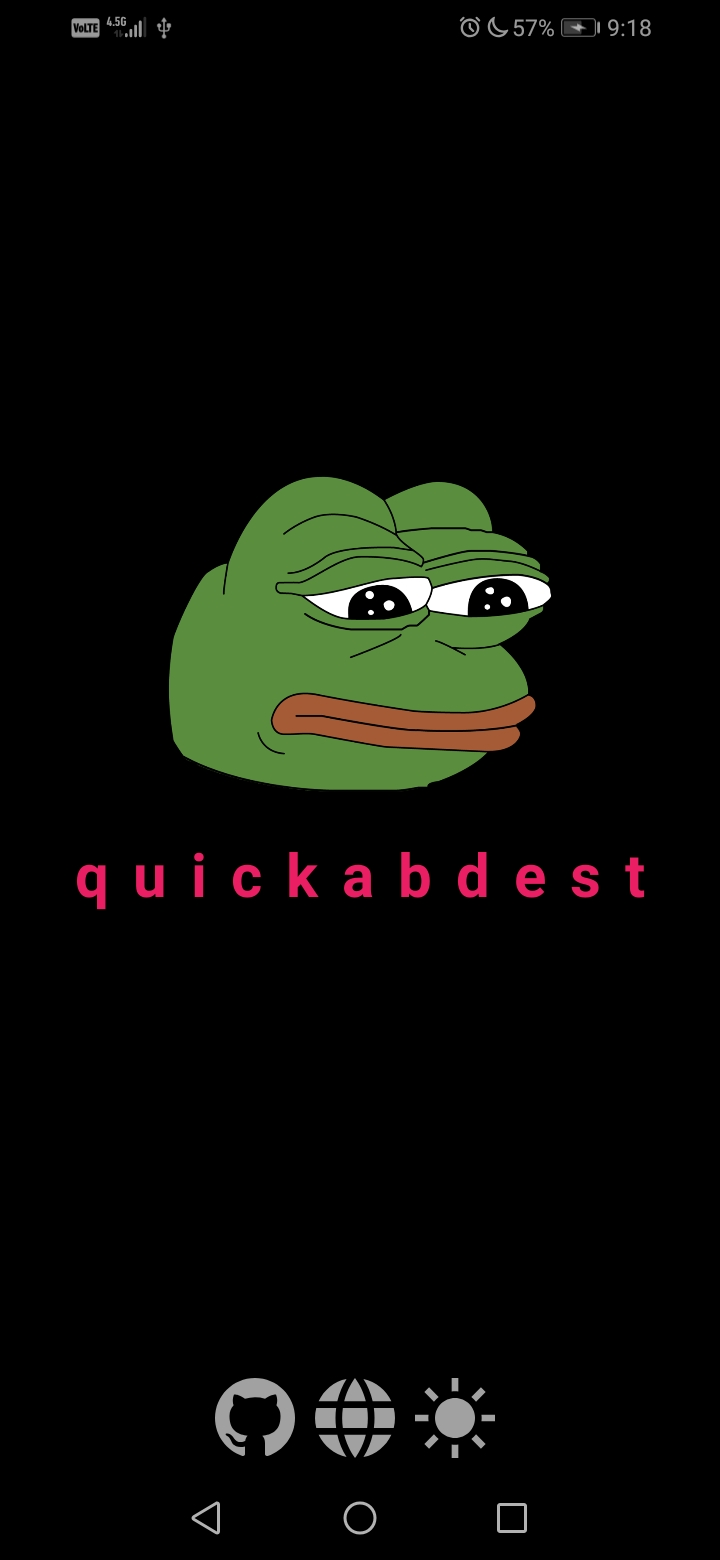
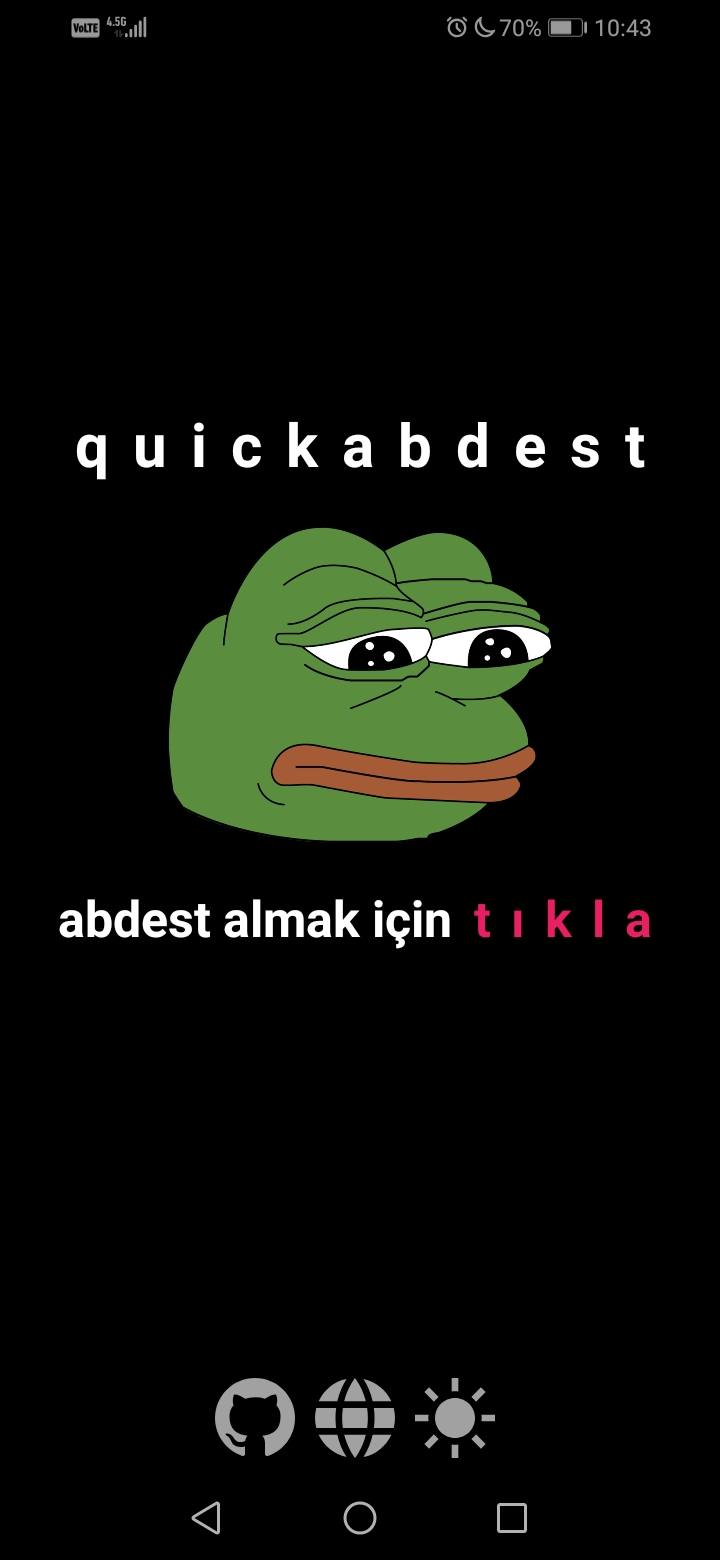
Change texts & add initial opening message

diff --git a/app/src/main/java/com/ahmetardakavakc/quickabdest/MainActivity.kt b/app/src/main/java/com/ahmetardakavakc/quickabdest/MainActivity.kt
@@ -7,6 +7,7 @@ import android.media.MediaPlayer
 import android.net.Uri
 import android.os.Bundle
 import android.view.View
+import androidx.appcompat.app.AlertDialog
 import androidx.appcompat.app.AppCompatActivity
 import androidx.core.view.WindowCompat
 import com.ahmetardakavakc.quickabdest.databinding.ActivityMainBinding
@@ -17,9 +18,11 @@ class MainActivity : AppCompatActivity() {
     private lateinit var mediaPlayer: MediaPlayer
     private lateinit var githubIntent: Intent
     private lateinit var websiteIntent: Intent
+    private lateinit var creditsIntent: Intent
     private lateinit var sharedPreferences: SharedPreferences
     private lateinit var prefEditor: SharedPreferences.Editor
     private var darkMode = false
+    private var firstStart: Boolean? = null
 
     override fun onCreate(savedInstanceState: Bundle?) {
         super.onCreate(savedInstanceState)
@@ -29,33 +32,66 @@ class MainActivity : AppCompatActivity() {
 
         githubIntent = Intent(Intent.ACTION_VIEW, Uri.parse("https://github.com/dybdeskarphet"))
         websiteIntent = Intent(Intent.ACTION_VIEW, Uri.parse("https://kavakci.dev"))
+        creditsIntent = Intent(Intent.ACTION_VIEW, Uri.parse("https://quickabdest.com"))
 
         sharedPreferences = getSharedPreferences("Prefs", MODE_PRIVATE)
         prefEditor = sharedPreferences.edit()
         darkMode = sharedPreferences.getBoolean("darkMode", false)
+        firstStart = sharedPreferences.getBoolean("firstStart", true)
 
         supportActionBar?.hide()
         checkDarkMode(view)
+        checkFirstStart()
 
     }
 
-
     fun clickPepe(view: View) {
-        binding.pepe.setImageResource(R.drawable.open)
-        binding.textView.text = "abdestlendin"
-        binding.pepe.isEnabled = false
+        binding.apply {
+            pepe.setImageResource(R.drawable.open)
+            emphaticText.text = "abdestlendin"
+            normalText.visibility = View.GONE
+            pepe.isEnabled = false
+        }
+
         mediaPlayer = MediaPlayer.create(this, R.raw.soundeffect)
 
         try {
             mediaPlayer.start()
 
             mediaPlayer.setOnCompletionListener {
-                binding.pepe.setImageResource(R.drawable.close)
-                binding.textView.text = "quickabdest"
-                binding.pepe.isEnabled = true
+                binding.apply {
+                    pepe.setImageResource(R.drawable.close)
+                    emphaticText.text = "tıkla"
+                    normalText.visibility = View.VISIBLE
+                    pepe.isEnabled = true
+                }
             }
+
         } catch (e: Exception) {
-            println(e)
+            e.printStackTrace()
+        }
+    }
+
+    private fun checkFirstStart() {
+        if (firstStart == true) {
+            firstStart = false
+            val builder = AlertDialog.Builder(this@MainActivity)
+            builder
+                .setMessage("Bu uygulamanın quickabdest.com geliştiricisi ile bir bağlantısı yoktur. Orijinal geliştiriciyi desteklemek için ")
+                .setPositiveButton("Geliştiriciyi Ziyaret Et"
+                ) { _, _ ->
+                    startActivity(creditsIntent)
+                    prefEditor.apply {
+                        putBoolean("firstStart", firstStart!!)
+                        apply()
+                    }
+                }
+                .setNegativeButton("Kapat") { _, _ ->
+                    prefEditor.apply {
+                        putBoolean("firstStart", firstStart!!)
+                        apply()
+                    }
+                }.show()
         }
     }
 
@@ -71,26 +107,43 @@ class MainActivity : AppCompatActivity() {
         if(darkMode) {
             WindowCompat.getInsetsController(window, view)?.isAppearanceLightStatusBars = false
 
-            binding.linearLayout.setBackgroundColor(Color.BLACK)
-            binding.darkToggle.setImageResource(R.drawable.ic_sun)
+            binding.apply {
+                mainLayout.setBackgroundColor(Color.BLACK)
+                darkToggle.setImageResource(R.drawable.ic_sun)
+                normalText.setTextColor(Color.WHITE)
+                appTitle.setTextColor(Color.WHITE)
+            }
 
-            window.navigationBarColor = Color.BLACK
-            window.statusBarColor = Color.BLACK
+            window.apply {
+                navigationBarColor = Color.BLACK
+                statusBarColor = Color.BLACK
+            }
+
         } else {
             WindowCompat.getInsetsController(window, view)?.isAppearanceLightStatusBars = true
 
-            binding.linearLayout.setBackgroundColor(Color.WHITE)
-            binding.darkToggle.setImageResource(R.drawable.ic_moon)
+            binding.apply {
+                mainLayout.setBackgroundColor(Color.WHITE)
+                darkToggle.setImageResource(R.drawable.ic_moon)
+                normalText.setTextColor(Color.BLACK)
+                appTitle.setTextColor(Color.BLACK)
+            }
 
-            window.navigationBarColor = Color.WHITE
-            window.statusBarColor = Color.WHITE
+            window.apply {
+                navigationBarColor = Color.WHITE
+                statusBarColor = Color.WHITE
+            }
         }
     }
 
     fun darkModeToggle(view: View) {
         darkMode = !darkMode
-        prefEditor.putBoolean("darkMode", darkMode)
-        prefEditor.apply()
+
+        prefEditor.apply {
+            putBoolean("darkMode", darkMode)
+            apply()
+        }
+
         checkDarkMode(view)
     }
 
@@ -111,7 +164,8 @@ class MainActivity : AppCompatActivity() {
     private fun stopPepe() {
         binding.apply {
             pepe.setImageResource(R.drawable.close)
-            textView.text = "quickabdest"
+            emphaticText.text = "tıkla"
+            normalText.visibility = View.VISIBLE
             pepe.isEnabled = true
         }
 
